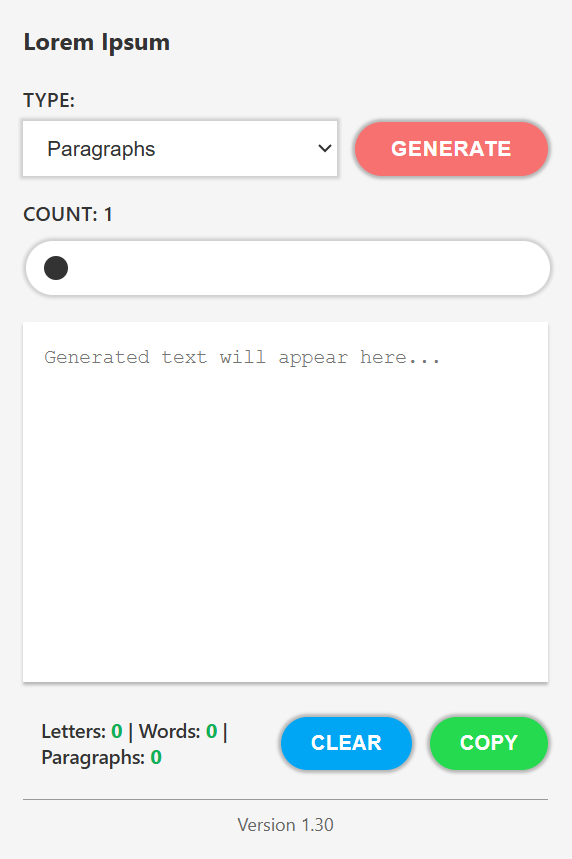
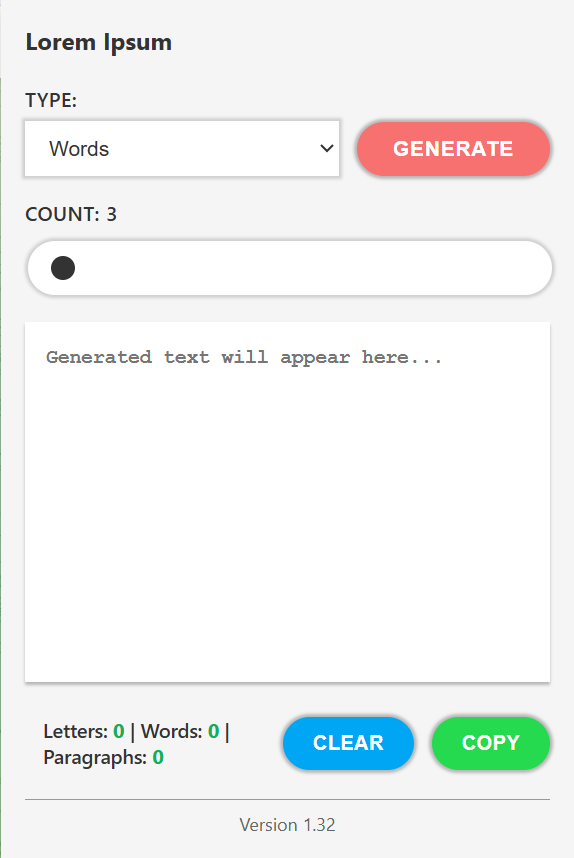
Version 1.32

diff --git a/popup.html b/popup.html
@@ -36,7 +36,7 @@
             <button id="copy" class="btn-copy">Copy</button>
         </div>
 
-        <div class="version">Version 1.30</div>
+        <div class="version">Version 1.32</div>
 
         <script src="popup.js"></script>
     </body>

diff --git a/style.css b/style.css
@@ -162,6 +162,7 @@ textarea {
     margin-bottom: 12px;
     overflow-x: auto;
     overflow-y: auto;
+    font-weight: 600;
 }
 
 textarea:focus {